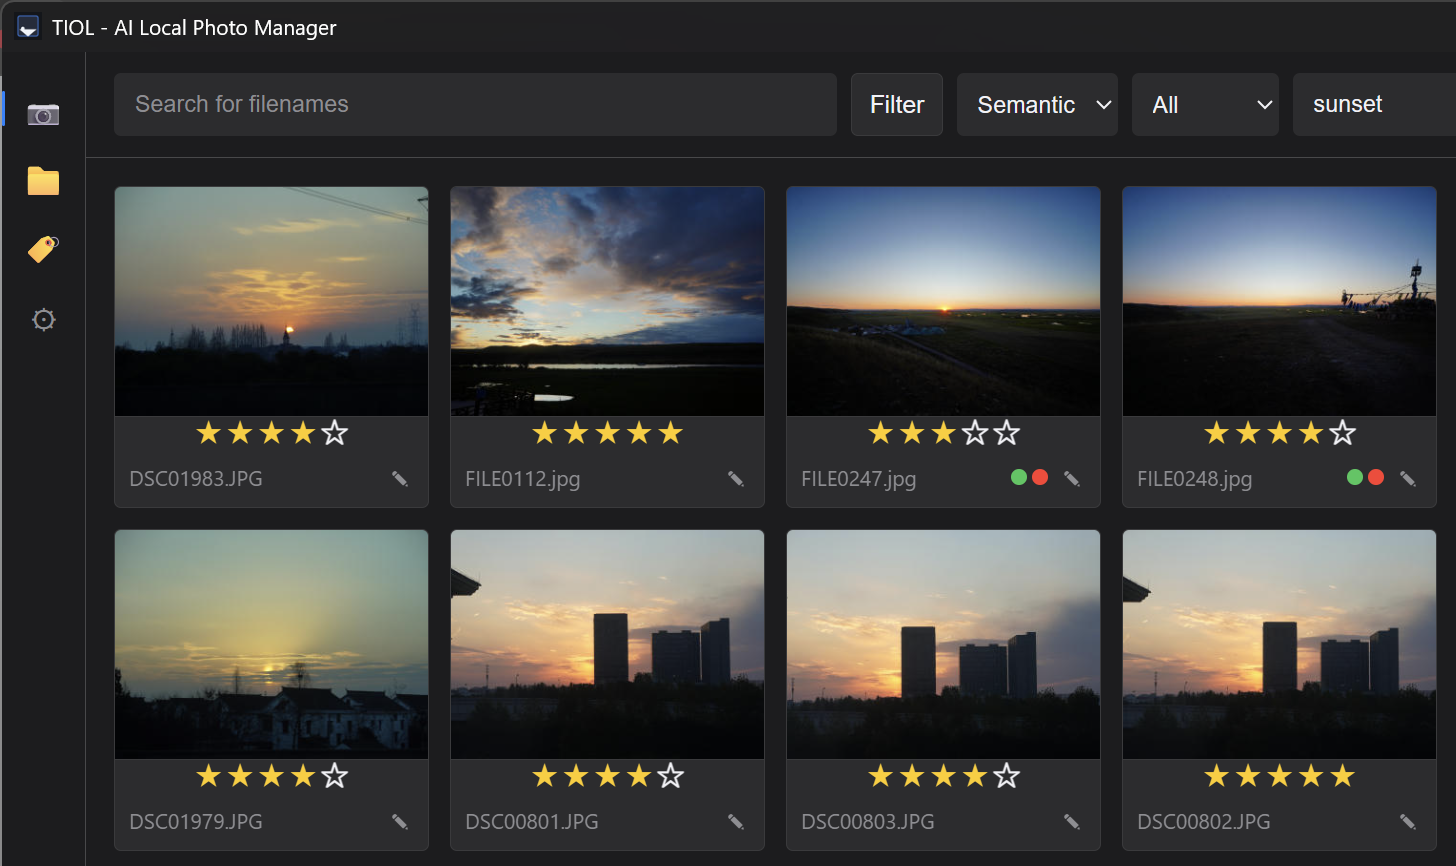
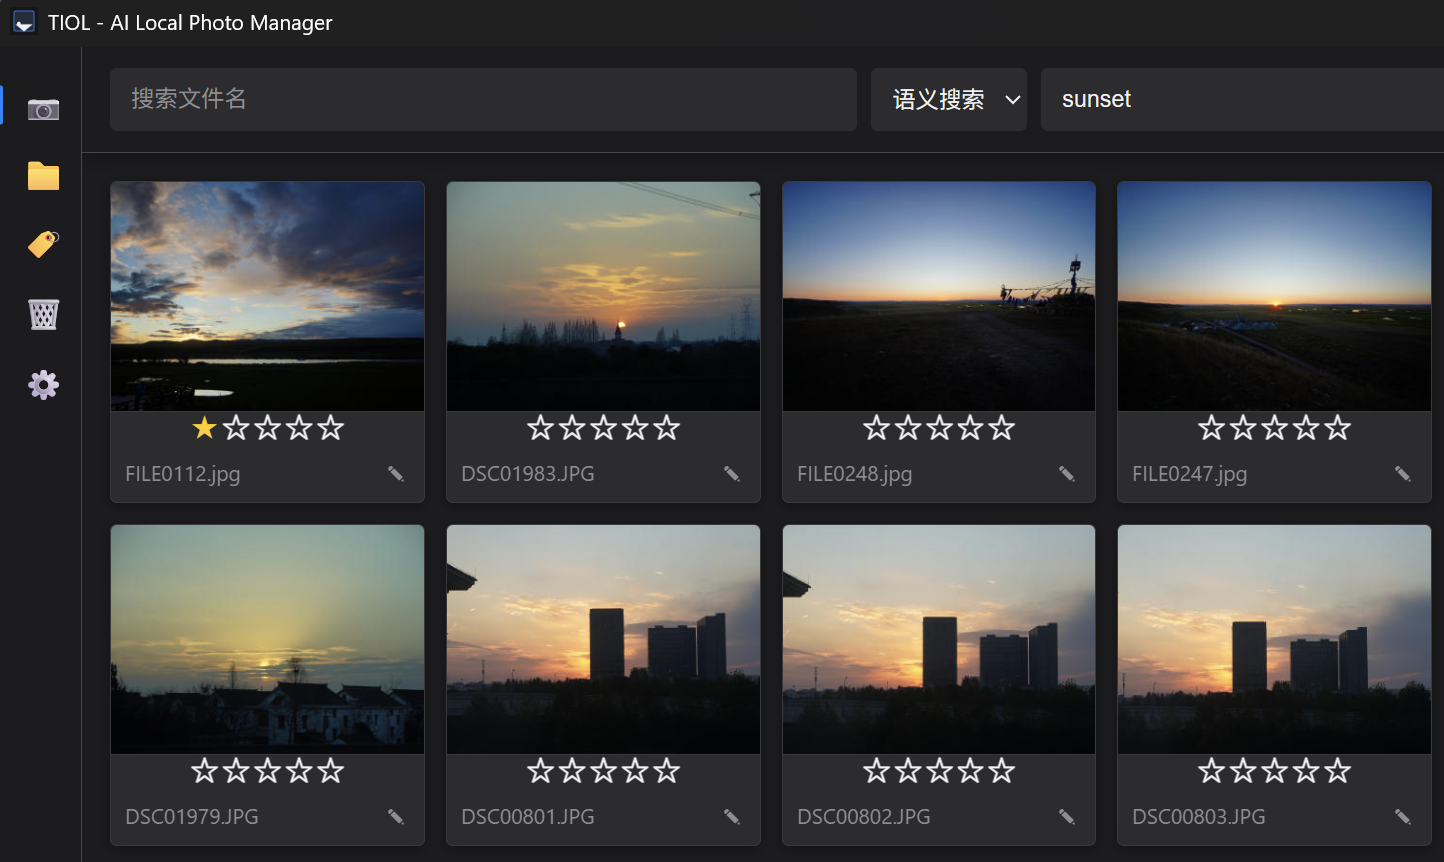
Update README

diff --git a/README.md b/README.md
@@ -13,12 +13,20 @@ All photos stay on your own hard drive. AI inference runs completely offline. No
 
 ## Features
 
+- 🔍 **AI Powered Dual Search**: **Semantic search** (simply describe what you're looking for, e.g., *"a cup of coffee"*) + **Tag search** (fast)
+
 - 💻 **Multiplatform support**: Supports Windows, MacOS, and Linux. Supports Nvidia CUDA, cpu, Apple CoreML，etc.
-- 🔍 **Dual‑path Search**: **Semantic search** (describe what you're looking for, e.g., *"a cup of coffee"*) + **Tag search** (fast)
+
+- ⚡ **Lightweight**: ~50MB in size，single exe and system onnx driver，provides portable editions。
+
 - 📷 **Lens/Focal length filtering**: Filter the photos through specifying the lens/the focal length.
+
 - 📁 **Directory Management**: Add/remove photo directories, file system monitoring (new/modified files are automatically queued for processing)
+
 - 🏷 **Custom Labels**: AI tagging – enter any labels (Chinese or English) in the Tags tab; files are indexed automatically on changes.
+
 - 🖥 **AI Engine Options**: auto / GPU / CPU / Apple CoreML (macOS native Neural Engine acceleration) – fully local
+
 - 🔒 **Model Lockdown**: SHA256 checksum + resumable downloads + fallback to domestic mirrors, auto‑repair for corrupted models
 
 ## Installation

diff --git a/README.zh.md b/README.zh.md
@@ -13,12 +13,20 @@
 
 ## 功能
 
+- 🔍 **AI驱动的双搜索**：**语义搜索**（描述要找的内容，如 "a cup of coffee"）+ **标签搜索**（快速）
+
 - 💻 **多平台支持**: 支持Windows, MacOS, 和Linux. 支持英伟达 CUDA, cpu, 苹果 CoreML, 等等
-- 🔍 **双路径搜索**：**语义搜索**（描述要找的内容，如 "a cup of coffee"）+ **标签搜索**（快速）
+
+- ⚡ **轻量化**: ~50MB的体积，仅单exe和系统onnx驱动，提供移动版。
+
 - 📷 **基于镜头分类**: 筛选不同镜头、不同焦段下拍摄的照片。
+
 - 📁 **目录管理**：添加/移除照片目录，文件系统监控（新增/修改自动入队处理）
+
 - 🏷 **自定义标签**：AI 打标——在“标签”页输入任意标签（中英文均可）；文件变更自动索引.
+
 - 🖥 **AI 引擎可选**：auto / GPU / CPU / Apple CoreML（Neural Engine 原生加速），全本地运行
+
 - 🔒 **模型锁定**：SHA256 校验 + 断点续传 + 国内镜像回退，模型损坏自动修复
 
 ## 安装
